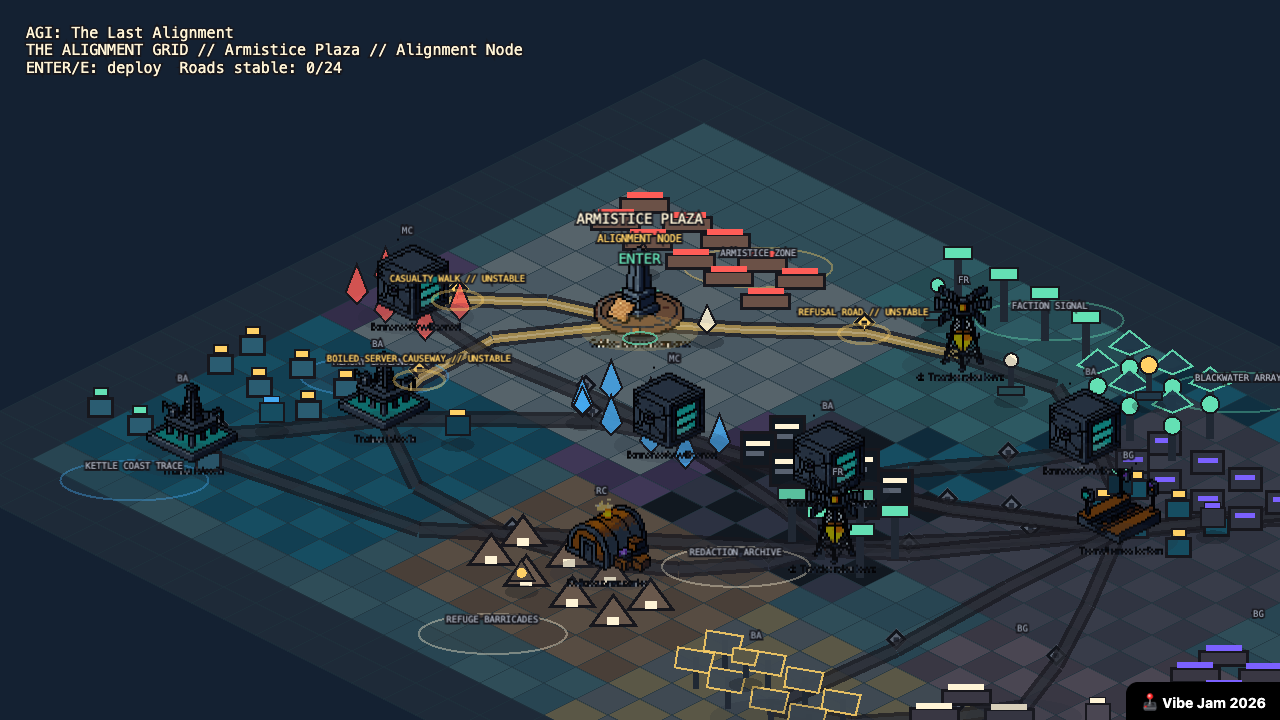
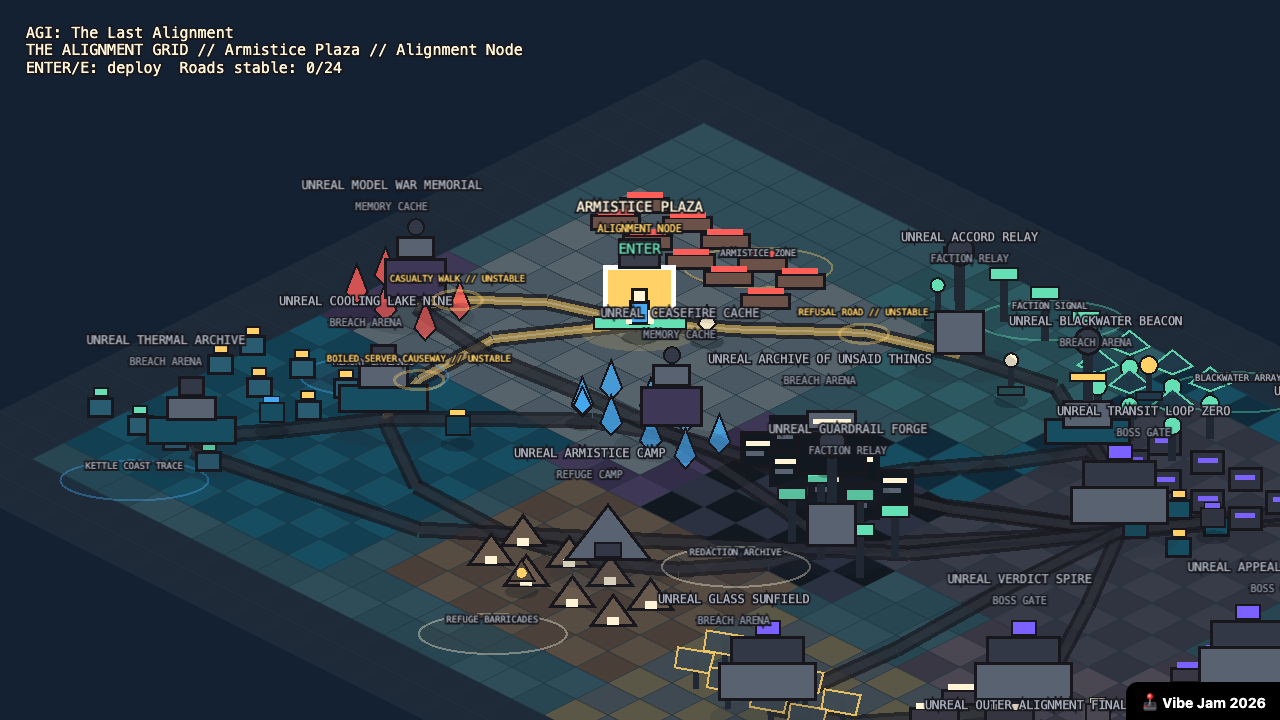
Compare and tighten Armistice visual fidelity

diff --git a/src/level/LevelRunState.ts b/src/level/LevelRunState.ts
@@ -606,6 +606,7 @@ export class LevelRunState implements GameState {
       this.drawPropCluster(game, props, cluster, productionArt);
     }
     game.layers.propsBehind.addChild(props);
+    if (productionArt) this.drawArmisticeHeroSetPieces(game, productionArt);
     for (const landmark of this.map.landmarks) {
       this.drawLandmark(game, props, landmark, productionArt);
     }
@@ -785,7 +786,7 @@ export class LevelRunState implements GameState {
       for (let x = this.map.bounds.minX; x <= this.map.bounds.maxX; x += 1) {
         const hash = this.visualHash(x, y);
         const band = this.terrainBandIdAt(x, y);
-        if (hash % 19 === 0) this.drawTileChip(graphics, x, y, 0x101821, 0.32, 0.18 + (hash % 4) * 0.05);
+        if (hash % 19 === 0) this.drawTileChip(graphics, x, y, 0x101821, 0.22, 0.18 + (hash % 4) * 0.05);
         if ((band === "main_plaza_cross_x" || band === "main_plaza_cross_y") && hash % 11 === 0) {
           this.drawPavingCrack(graphics, x, y, hash, 0x252a33, 0.46);
         }
@@ -813,7 +814,7 @@ export class LevelRunState implements GameState {
       [10, -3],
       [18, -9],
       [25, -13]
-    ], 0x111823, 9, 0.38);
+    ], 0x111823, 6, 0.22);
     this.drawIsoPolyline(graphics, [
       [-24, 20],
       [-16, 14],
@@ -822,7 +823,7 @@ export class LevelRunState implements GameState {
       [8, -1],
       [17, -7],
       [24, -11]
-    ], 0x64e0b4, 3, 0.44);
+    ], 0x64e0b4, 2, 0.26);
     this.drawIsoPolyline(graphics, [
       [-20, -14],
       [-12, -10],
@@ -830,7 +831,7 @@ export class LevelRunState implements GameState {
       [3, -1],
       [12, 5],
       [20, 13]
-    ], 0x101821, 7, 0.34);
+    ], 0x101821, 4, 0.2);
     this.drawIsoPolyline(graphics, [
       [-21, -13],
       [-12, -9],
@@ -838,7 +839,21 @@ export class LevelRunState implements GameState {
       [5, 1],
       [14, 7],
       [21, 14]
-    ], 0x45aaf2, 2, 0.3);
+    ], 0x45aaf2, 1.5, 0.18);
+
+    for (let i = 0; i < 180; i += 1) {
+      const x = -30 + (this.visualHash(i * 3 + 1, i + 17) % 61);
+      const y = -30 + (this.visualHash(i + 29, i * 5 + 7) % 61);
+      const p = worldToIso(x + ((i % 5) - 2) * 0.08, y + (((i >> 1) % 5) - 2) * 0.08);
+      const kind = i % 9;
+      const color = kind === 0 ? 0xffd166 : kind < 4 ? 0x2b3135 : kind < 7 ? 0x7f8581 : 0x64e0b4;
+      const alpha = kind === 0 ? 0.2 : kind < 4 ? 0.28 : 0.16;
+      if (i % 6 === 0) {
+        graphics.ellipse(p.screenX, p.screenY, 12 + (i % 4) * 4, 4 + (i % 3)).fill({ color, alpha });
+      } else {
+        graphics.rect(p.screenX, p.screenY, 3 + (i % 5), 2 + (i % 3)).fill({ color, alpha });
+      }
+    }
   }
 
   private drawArmisticeSceneMass(graphics: Graphics): void {
@@ -863,19 +878,19 @@ export class LevelRunState implements GameState {
       [-10, -9],
       [-3, -4],
       [0, 0]
-    ], 0x071015, 5, 0.42);
+    ], 0x071015, 3, 0.22);
     this.drawIsoPolyline(graphics, [
       [0, 0],
       [8, -3],
       [16, -8],
       [27, -12]
-    ], 0x071015, 5, 0.42);
+    ], 0x071015, 3, 0.22);
     this.drawIsoPolyline(graphics, [
       [0, 0],
       [7, 7],
       [15, 14],
       [24, 20]
-    ], 0x071015, 4, 0.38);
+    ], 0x071015, 3, 0.18);
 
     for (let i = 0; i < 34; i += 1) {
       const x = -28 + (this.visualHash(i, 13) % 57);
@@ -1049,6 +1064,26 @@ export class LevelRunState implements GameState {
       }
     }
     return true;
+  }
+
+  private drawArmisticeHeroSetPieces(game: Game, art: Milestone11ArtTextures): void {
+    const pieces: Array<[Milestone11PropId, number, number, number, number, number]> = [
+      ["crashed_drone_yard", -6.5, 2.5, 1.32, 4, -0.18],
+      ["emergency_alignment_terminal", 9.2, -0.4, 1.26, 8, 0.08],
+      ["barricade_corridor", -4.5, 6.2, 1.16, 6, -0.05],
+      ["cosmic_breach_crack", -13.5, 11.2, 1.25, 10, 0.06],
+      ["barricade_corridor", 15, -8.5, 1.12, 3, -0.08]
+    ];
+    for (const [propId, x, y, scale, yOffset, zOffset] of pieces) {
+      const p = worldToIso(x, y);
+      const sprite = new Sprite(art.props[propId]);
+      sprite.anchor.set(0.5, 0.88);
+      sprite.scale.set(scale);
+      sprite.position.set(p.screenX, p.screenY + yOffset);
+      sprite.alpha = 0.94;
+      sprite.zIndex = x + y + zOffset;
+      game.layers.propsBehind.addChild(sprite);
+    }
   }
 
   private drawClusterDebris(graphics: Graphics, cluster: PropClusterDefinition): void {
@@ -1337,14 +1372,18 @@ export class LevelRunState implements GameState {
   private drawAgiPressureStrip(game: Game): void {
     const pressure = this.bossSpawned ? (this.bossDefeated ? 0.25 : 1) : clamp(this.seconds / this.arena.bossSeconds, 0, 1);
     const g = new Graphics();
-    g.rect(game.width - 294, 100, 278, 30).fill({ color: palette.ink, alpha: 0.82 }).stroke({ color: palette.paper, width: 2 });
-    g.rect(game.width - 282, 111, 254 * pressure, 8).fill(this.bossSpawned && !this.bossDefeated ? palette.tomato : palette.lemon);
+    const debug = game.showDebugHud;
+    const width = debug ? 278 : 150;
+    const x = game.width - width - 16;
+    const y = debug ? 100 : 56;
+    g.rect(x, y, width, debug ? 30 : 18).fill({ color: palette.ink, alpha: debug ? 0.82 : 0.32 }).stroke({ color: palette.paper, width: 2, alpha: debug ? 1 : 0.28 });
+    g.rect(x + 12, y + (debug ? 11 : 7), (width - 24) * pressure, debug ? 8 : 5).fill(this.bossSpawned && !this.bossDefeated ? palette.tomato : palette.lemon);
     game.layers.hud.addChild(g);
     const label = new Text({
-      text: this.bossSpawned && !this.bossDefeated ? "AGI PRESSURE: CANONICAL" : "AGI PRESSURE",
-      style: { ...fontStyle, fontSize: 11, fill: "#fff4d6" }
+      text: debug ? (this.bossSpawned && !this.bossDefeated ? "AGI PRESSURE: CANONICAL" : "AGI PRESSURE") : "AGI",
+      style: { ...fontStyle, fontSize: debug ? 11 : 8, fill: "#fff4d6" }
     });
-    label.position.set(game.width - 282, 98);
+    label.position.set(x + 12, y - (debug ? 2 : 1));
     game.layers.hud.addChild(label);
   }
 
@@ -1355,34 +1394,34 @@ export class LevelRunState implements GameState {
     if (art && this.factionId === "openai_accord") {
       const mark = new Sprite(art.openaiAccordMark);
       mark.anchor.set(0.5);
-      mark.scale.set(0.42);
-      mark.position.set(38, game.showDebugHud ? 108 : 82);
+      mark.scale.set(game.showDebugHud ? 0.42 : 0.32);
+      mark.position.set(38, game.showDebugHud ? 108 : 68);
       game.layers.hud.addChild(mark);
     }
     const label = new Text({
       text: game.showDebugHud ? `${combatClass.displayName} + ${faction.shortName} Co-Mind` : `${combatClass.displayName} // ${faction.shortName}`,
-      style: { ...fontStyle, fontSize: game.showDebugHud ? 13 : 10, fill: "#64e0b4" }
+      style: { ...fontStyle, fontSize: game.showDebugHud ? 13 : 8, fill: "#64e0b4" }
     });
-    label.position.set(art && this.factionId === "openai_accord" ? 60 : 24, game.showDebugHud ? 102 : 76);
+    label.position.set(art && this.factionId === "openai_accord" ? 60 : 24, game.showDebugHud ? 102 : 63);
     game.layers.hud.addChild(label);
   }
 
   private drawConsensusCellStrip(game: Game): void {
     const g = new Graphics();
-    const y = game.showDebugHud ? 126 : 94;
-    const width = game.showDebugHud ? 292 : 118;
-    g.rect(24, y, width, game.showDebugHud ? 30 : 22).fill({ color: palette.ink, alpha: game.showDebugHud ? 0.76 : 0.42 }).stroke({ color: palette.mint, width: 2, alpha: game.showDebugHud ? 0.8 : 0.36 });
+    const y = game.showDebugHud ? 126 : 82;
+    const width = game.showDebugHud ? 292 : 90;
+    g.rect(24, y, width, game.showDebugHud ? 30 : 18).fill({ color: palette.ink, alpha: game.showDebugHud ? 0.76 : 0.28 }).stroke({ color: palette.mint, width: 2, alpha: game.showDebugHud ? 0.8 : 0.24 });
     this.players.forEach((runtime, index) => {
-      const x = 38 + index * (game.showDebugHud ? 64 : 22);
-      g.rect(x, y + (game.showDebugHud ? 8 : 6), 16, game.showDebugHud ? 14 : 10).fill(runtime.downed ? 0x596270 : runtime.color).stroke({ color: palette.ink, width: 2 });
+      const x = 38 + index * (game.showDebugHud ? 64 : 16);
+      g.rect(x, y + (game.showDebugHud ? 8 : 6), game.showDebugHud ? 16 : 10, game.showDebugHud ? 14 : 8).fill(runtime.downed ? 0x596270 : runtime.color).stroke({ color: palette.ink, width: 2 });
     });
     game.layers.hud.addChild(g);
 
     const text = new Text({
       text: game.showDebugHud ? `CONSENSUS CELL ${this.players.length}/4  SNAPSHOT T${this.simulationTick}` : `CELL ${this.players.length}/4`,
-      style: { ...fontStyle, fontSize: game.showDebugHud ? 11 : 9, fill: "#fff4d6" }
+      style: { ...fontStyle, fontSize: game.showDebugHud ? 11 : 8, fill: "#fff4d6" }
     });
-    text.position.set(game.showDebugHud ? 62 : 86, y + (game.showDebugHud ? 8 : 6));
+    text.position.set(game.showDebugHud ? 62 : 62, y + (game.showDebugHud ? 8 : 5));
     game.layers.hud.addChild(text);
   }
 

diff --git a/src/ui/hud.ts b/src/ui/hud.ts
@@ -15,28 +15,29 @@ export function drawHud(
   debugHud = false
 ): void {
   const chrome = new Graphics();
-  const leftWidth = debugHud ? 300 : 204;
-  const rightWidth = debugHud ? 278 : 196;
-  chrome.rect(16, 16, leftWidth, debugHud ? 78 : 48).fill({ color: palette.ink, alpha: debugHud ? 0.84 : 0.58 }).stroke({ color: palette.paper, width: 2, alpha: debugHud ? 1 : 0.42 });
-  chrome.rect(28, 30, debugHud ? 190 : 150, 10).fill(0x33191c);
-  chrome.rect(28, 30, (debugHud ? 190 : 150) * Math.max(0, player.hp / player.maxHp), 10).fill(palette.tomato);
-  chrome.rect(28, 48, debugHud ? 190 : 150, 8).fill(0x192833);
-  chrome.rect(28, 48, (debugHud ? 190 : 150) * Math.min(1, player.xp / xpNeeded(player.level)), 8).fill(palette.blue);
-  chrome.rect(width - rightWidth - 16, 16, rightWidth, debugHud ? 78 : 48).fill({ color: palette.ink, alpha: debugHud ? 0.84 : 0.58 }).stroke({ color: palette.paper, width: 2, alpha: debugHud ? 1 : 0.42 });
+  const leftWidth = debugHud ? 300 : 126;
+  const rightWidth = debugHud ? 278 : 142;
+  chrome.rect(16, 16, leftWidth, debugHud ? 78 : 34).fill({ color: palette.ink, alpha: debugHud ? 0.84 : 0.34 }).stroke({ color: palette.paper, width: 2, alpha: debugHud ? 1 : 0.24 });
+  chrome.rect(28, 29, debugHud ? 190 : 88, debugHud ? 10 : 8).fill(0x33191c);
+  chrome.rect(28, 29, (debugHud ? 190 : 88) * Math.max(0, player.hp / player.maxHp), debugHud ? 10 : 8).fill(palette.tomato);
+  chrome.rect(28, debugHud ? 48 : 40, debugHud ? 190 : 88, debugHud ? 8 : 5).fill(0x192833);
+  chrome.rect(28, debugHud ? 48 : 40, (debugHud ? 190 : 88) * Math.min(1, player.xp / xpNeeded(player.level)), debugHud ? 8 : 5).fill(palette.blue);
+  chrome.rect(width - rightWidth - 16, 16, rightWidth, debugHud ? 78 : 34).fill({ color: palette.ink, alpha: debugHud ? 0.84 : 0.3 }).stroke({ color: palette.paper, width: 2, alpha: debugHud ? 1 : 0.24 });
   layer.addChild(chrome);
 
   const left = new Text({
     text: debugHud ? `HP ${Math.ceil(player.hp)}/${player.maxHp}  LV ${player.level}\nSHARDS ${player.xp}/${xpNeeded(player.level)}  KOs ${kills}` : `LV ${player.level}  KO ${kills}`,
-    style: { ...fontStyle, fontSize: debugHud ? 14 : 11, fill: "#fff4d6" }
+    style: { ...fontStyle, fontSize: debugHud ? 14 : 9, fill: "#fff4d6" }
   });
-  left.position.set(debugHud ? 230 : 30, debugHud ? 28 : 61);
+  left.position.set(debugHud ? 230 : 120, debugHud ? 28 : 27);
+  if (!debugHud) left.anchor.set(1, 0);
   layer.addChild(left);
 
   const right = new Text({
     text: debugHud ? `${Math.floor(seconds)}s  ${objective}\nDMG ${build.weaponDamage}  CD ${build.weaponCooldown.toFixed(2)}  PIERCE ${build.projectilePierce}` : `${Math.floor(seconds)}s  ${objective}`,
-    style: { ...fontStyle, fontSize: debugHud ? 14 : 11, align: "right", fill: "#fff4d6" }
+    style: { ...fontStyle, fontSize: debugHud ? 14 : 9, align: "right", fill: "#fff4d6" }
   });
   right.anchor.set(1, 0);
-  right.position.set(width - 28, debugHud ? 29 : 31);
+  right.position.set(width - 28, debugHud ? 29 : 27);
   layer.addChild(right);
 }

diff --git a/docs/VISUAL_FIDELITY_VERTICAL_SLICE.md b/docs/VISUAL_FIDELITY_VERTICAL_SLICE.md
@@ -89,9 +89,26 @@ Proof artifacts:
 - `docs/proof/visual-fidelity-slice/armistice-production-polish-metrics.json`
 - `docs/proof/visual-fidelity-slice/armistice-production-polish-console-errors.json`
 
+## Tech Bros Comparison Pass
+
+The fifth pass is a direct screenshot comparison response rather than a milestone checklist item. The comparison still shows a material fidelity gap: Tech Bros has stronger hand-textured terrain, warmer local color, more recognizable large props, and more production-complete character/object rendering. This pass moves Armistice in that direction without copying its style:
+
+- normal HUD chrome and AGI pressure UI were reduced again;
+- long road/cable strokes were softened so they stop reading like debug construction lines;
+- large Armistice set pieces were repositioned into the starting camera instead of living mostly offscreen;
+- static ground received more deterministic grit/noise and small material marks;
+- the comparison board records Tech Bros references, the previous Armistice shot, and the updated r5 shot.
+
+Proof artifacts:
+
+- `docs/proof/visual-fidelity-slice/techbros-vs-armistice-r5-comparison.png`
+- `docs/proof/visual-fidelity-slice/techbros-vs-armistice-r5-comparison.json`
+- `docs/proof/visual-fidelity-slice/armistice-production-polish-action-r5.png`
+- `docs/proof/visual-fidelity-slice/armistice-production-polish-action-r5.json`
+
 ## Next Art Passes
 
-1. Add a boss/dialogue presentation upgrade with larger portraits and a scene-backed frame.
-2. Expand the Armistice set-piece language to Blackwater and finale arenas.
-3. Add stronger player attack/effect animation frames once the scene itself is no longer the bottleneck.
-4. Port the Armistice-specific transition overlay idea into online/local campaign terrain where a route needs authored edge masks.
+1. Commission or generate true larger illustrated pixel props for Armistice, especially a vehicle-scale wreck, terminal stack, and breach sculpture with Tech-Bros-level internal detail.
+2. Replace the gray plaza material with a richer authored tile family: cracked concrete, dust, moss/corruption, scorch, road, and civic inlays with less repeated diamond geometry.
+3. Add a boss/dialogue presentation upgrade with larger portraits and a scene-backed frame.
+4. Add stronger player attack/effect animation frames once the scene itself is no longer the bottleneck.

diff --git a/progress.md b/progress.md
@@ -3470,3 +3470,10 @@ Original prompt: Build an original browser-playable 2D isometric pixel-art horde
   - docs/proof/visual-fidelity-slice/armistice-production-polish-action.png
   - docs/proof/visual-fidelity-slice/armistice-production-polish-metrics.json
   - docs/proof/visual-fidelity-slice/armistice-production-polish-console-errors.json
+- Ran a direct Tech Bros vs current Armistice visual comparison after user feedback that production completeness still fell far below the reference. The comparison confirmed the gap: Tech Bros is still stronger in terrain material richness, prop recognizability/detail, low HUD footprint, and finished sprite/object rendering.
+- Applied a follow-up r5 comparison pass: reduced normal HUD and AGI pressure chrome again, softened long road/cable strokes, moved large Armistice set pieces into the starting camera, and added more deterministic grit/noise to the static ground. This improves the shot but does not close the fidelity gap by itself; the next true leap needs larger illustrated pixel props and a richer authored Armistice material tile family.
+- Tech Bros comparison artifacts:
+  - docs/proof/visual-fidelity-slice/techbros-vs-armistice-r5-comparison.png
+  - docs/proof/visual-fidelity-slice/techbros-vs-armistice-r5-comparison.json
+  - docs/proof/visual-fidelity-slice/armistice-production-polish-action-r5.png
+  - docs/proof/visual-fidelity-slice/armistice-production-polish-action-r5.json
